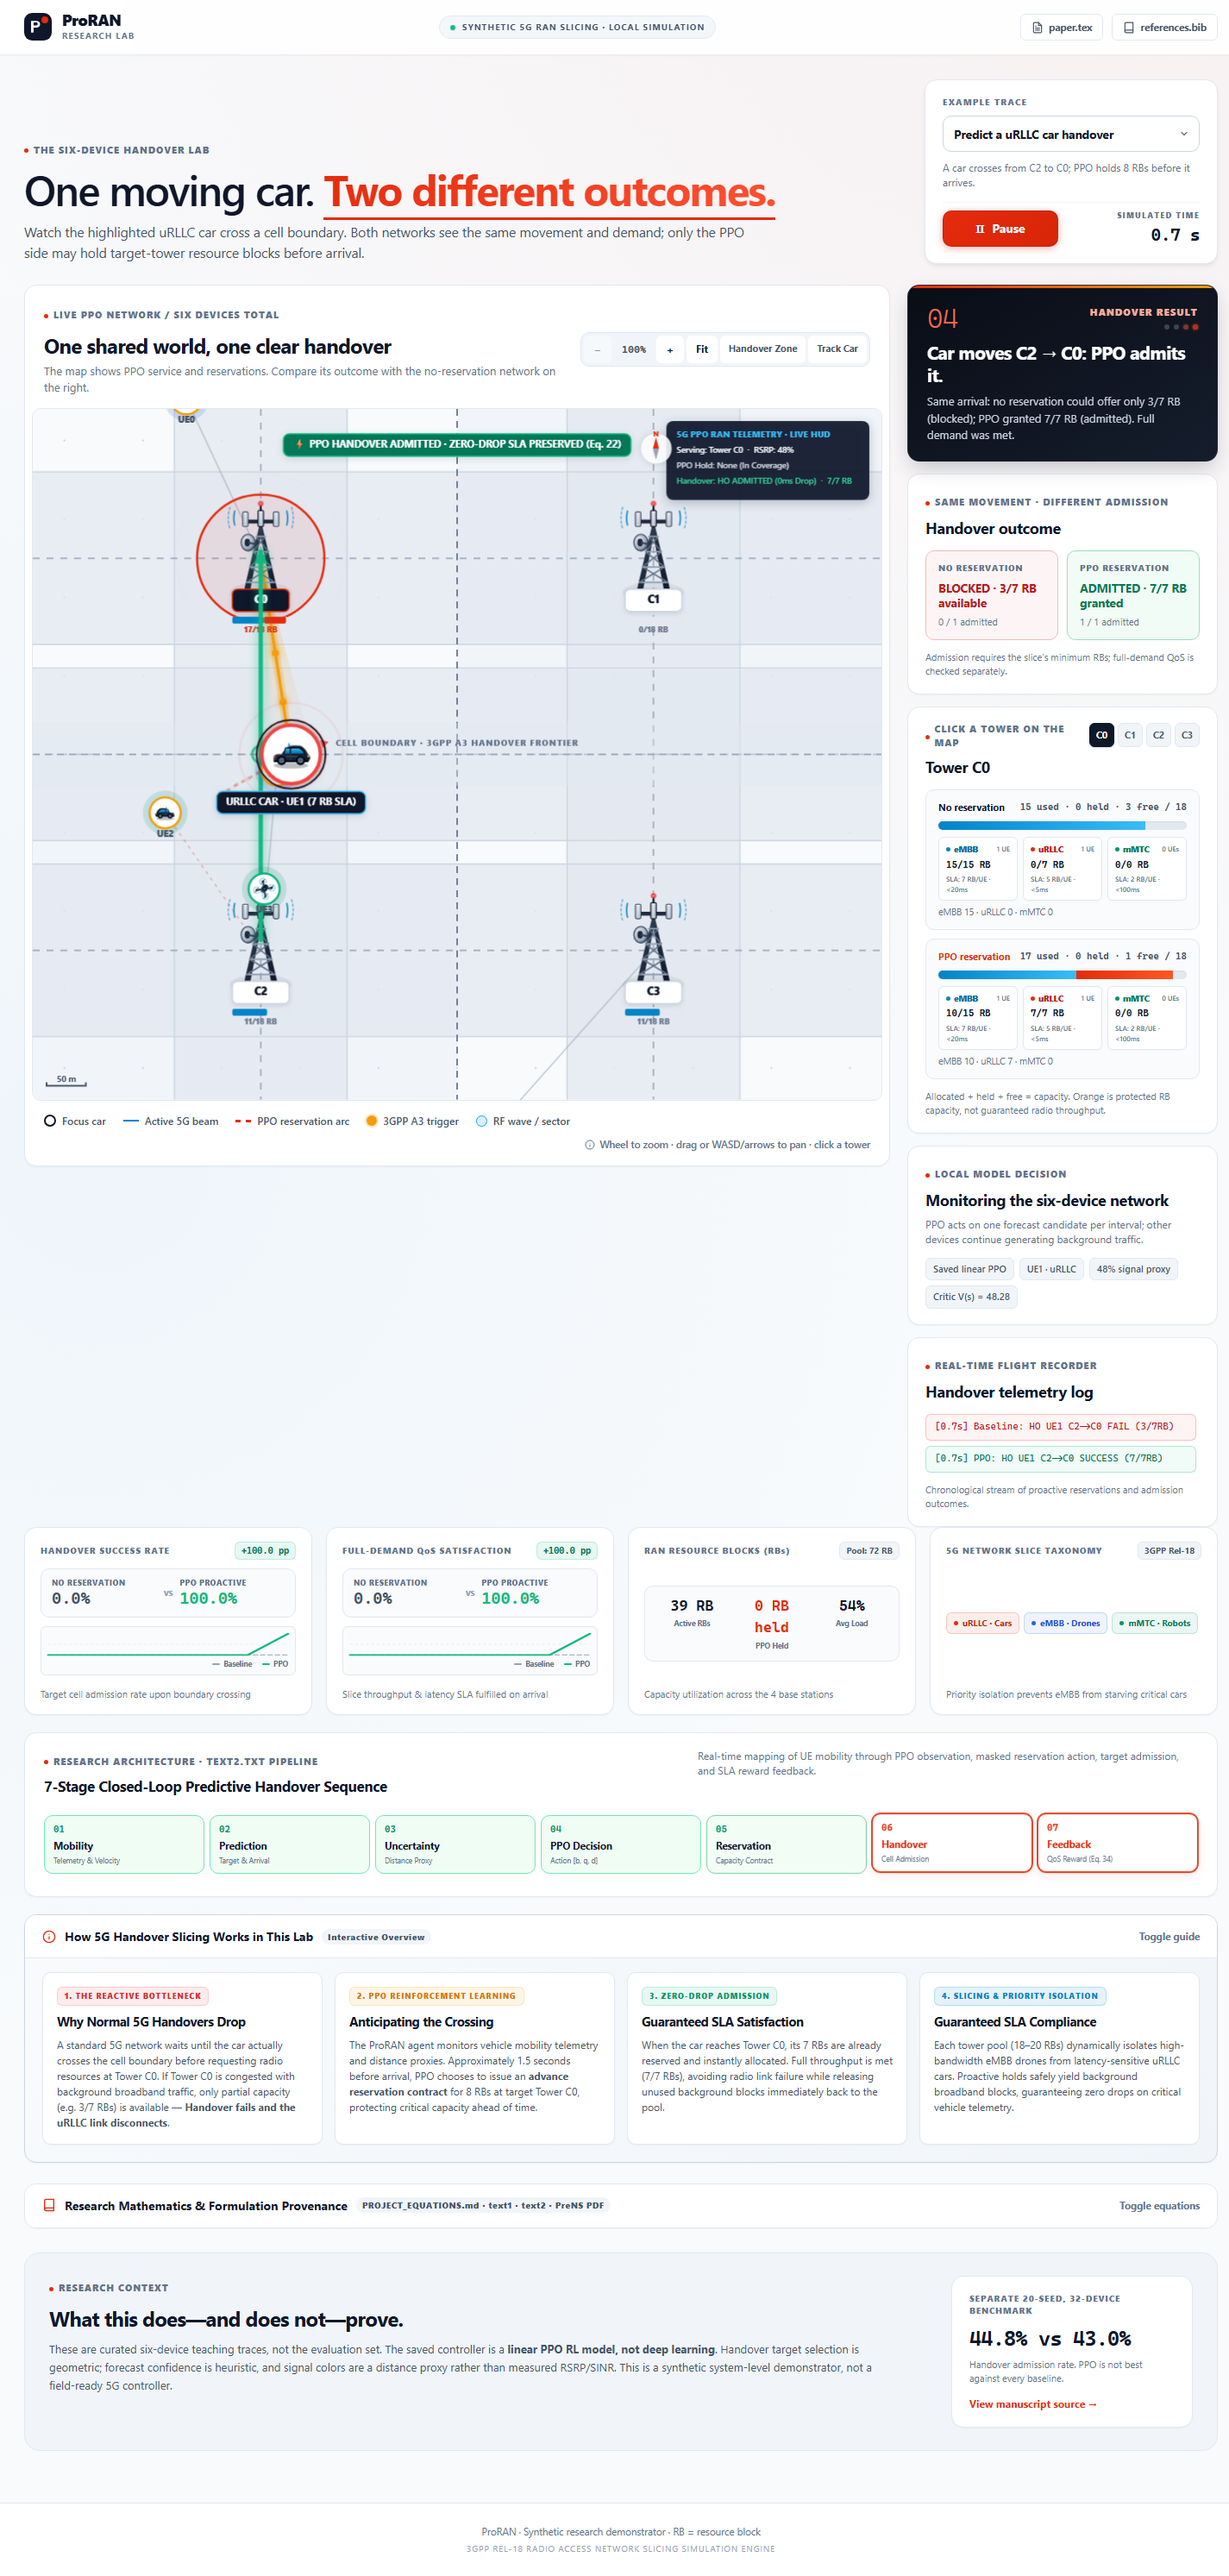
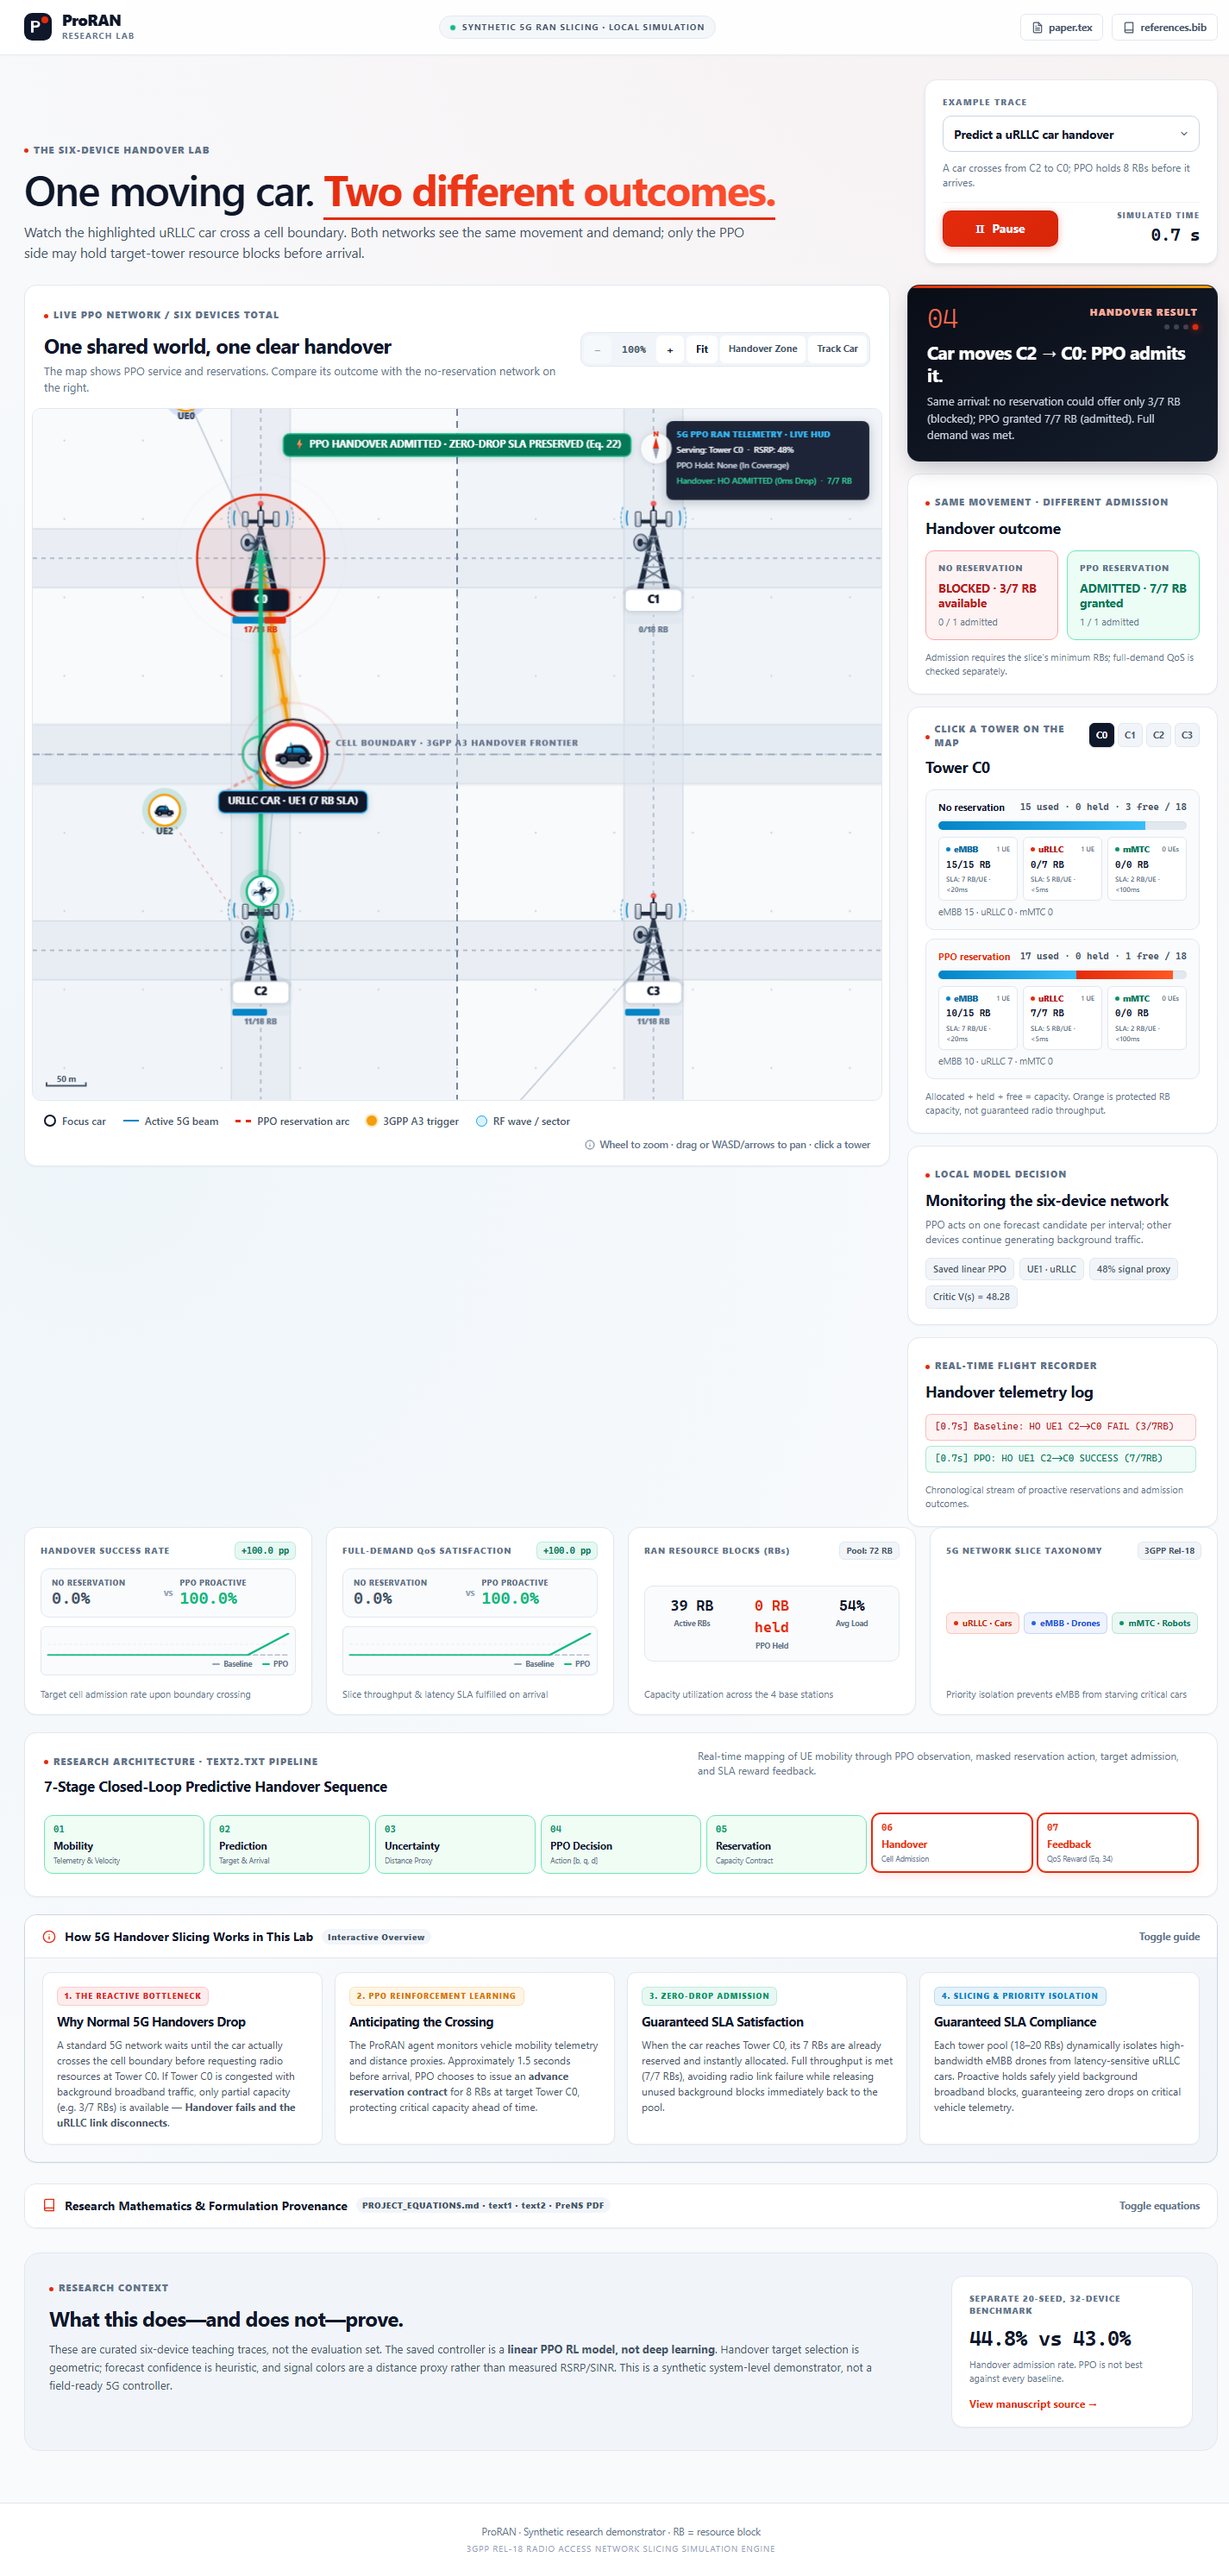
fix: reduce road width to match simulation metric scale and guard pause state

Changed region(s): [[0.1853, 0.2492, 0.2779, 0.3737], [0.1235, 0.3115, 0.1544, 0.3426], [0.1235, 0.1557, 0.1544, 0.1869]]

diff --git a/web/static/lab.js b/web/static/lab.js
@@ -196,14 +196,14 @@ function drawMap(now) {
   }
   ctx.restore();
 
-  // 2. Transparent / Translucent Transit Corridors (Clean & Visible)
+  // 2. Transparent / Translucent Transit Corridors (Clean, Sleek & Scaled)
   ctx.save();
-  const roadWidth = p.side * 0.22; // Wide roads filling across the screen
+  const roadWidth = p.side * 0.075; // Sleek, proportional road corridors matching the metric scale
   const vCorridors = [25, 75];
   const hCorridors = [25, 50, 75];
 
   // A. Translucent Roadbed Fill
-  ctx.fillStyle = "rgba(226, 232, 240, 0.72)";
+  ctx.fillStyle = "rgba(226, 232, 240, 0.65)";
   for (const rx of vCorridors) {
     ctx.fillRect(p.x(rx) - roadWidth / 2, 0, roadWidth, height);
   }
@@ -213,7 +213,7 @@ function drawMap(now) {
 
   // B. Clean Corridor Curbs / Borders
   ctx.strokeStyle = "#cbd5e1";
-  ctx.lineWidth = 1.4;
+  ctx.lineWidth = 1.0;
   ctx.beginPath();
   for (const rx of vCorridors) {
     const px = p.x(rx);
@@ -233,8 +233,8 @@ function drawMap(now) {
 
   // C. Road Dash Centerlines
   ctx.strokeStyle = "#94a3b8";
-  ctx.lineWidth = 1.5;
-  ctx.setLineDash([8, 8]);
+  ctx.lineWidth = 1.2;
+  ctx.setLineDash([5, 5]);
   ctx.beginPath();
   for (const rx of vCorridors) {
     const px = p.x(rx);
@@ -1359,9 +1359,9 @@ async function advance(generation) {
   app.busy = true;
   try {
     const snapshot = await requestJSON("/api/step", {session: app.token, count: 1});
-    if (generation === app.generation) acceptSnapshot(snapshot);
+    if (generation === app.generation && app.playing) acceptSnapshot(snapshot);
   } catch (error) {
-    if (generation === app.generation) showError(error);
+    if (generation === app.generation && app.playing) showError(error);
   } finally {
     app.busy = false;
     if (app.playing && generation === app.generation) {
